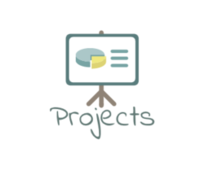
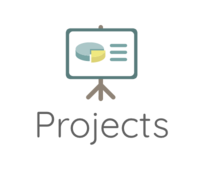
Minor Changes Nav bar images width and height adjusted and made them responsive

Changed region(s): [[0.1765, 0.1471, 0.8235, 0.8529]]

diff --git a/WebContent/index.html b/WebContent/index.html
@@ -59,12 +59,12 @@ $('.dropdown').on('hide.bs.dropdown', function() {
 <div class="dropdown">
 <div class="dropdown-toggle" data-toggle="dropdown"  style="cursor:pointer;float:center;"><p style="text-align:center;margin-top:16px; font-family: 'Aldrich';font-size:20px;color:#BEB9B5;">{{name}}</p></div>
   
-  <ul class="dropdown-menu dropdown-menu-right" role="menu" style="width:100%;background-color:#222d3d;margin-top:1%;margin-right:0%;">
-    <li style="padding:8px; font-size:20px;font-color:#efefef;font-family: 'Poiret One', cursive;"><a  style="font-color:#efefef" href="#myself"><img src ="images/nav1.png"/></a></li>
-    <li style="color:#efefef;padding:8px; font-size:20px;font-family: 'Poiret One', cursive;"><a href="#education"><img src ="images/nav2.png"/></a></li>
-    <li style="padding:8px; font-size:20px;font-family: 'Poiret One', cursive;"><a href="#proj" ><img src ="images/nav3.png"/></a></li>
-    <li style="padding:8px; font-size:20px;font-family: 'Poiret One', cursive;"><a href="#exp" ><img src ="images/nav4.png"/></a></li>
-    <li style="padding:8px; font-size:20px;font-family: 'Poiret One', cursive;"><a href="#exptech" ><img src ="images/nav5.png"/></a></li>
+  <ul class="dropdown-menu dropdown-menu-right" role="menu" style="width:100%;background-color:#000000;margin-top:1%;margin-right:0%;">
+    <li style="padding:8px; font-size:20px;font-color:#efefef;font-family: 'Poiret One', cursive;"><a  style="font-color:#efefef" href="#myself"><img class="img-responsive" src ="images/nav1.png"/></a></li>
+    <li style="color:#efefef;padding:8px; font-size:20px;font-family: 'Poiret One', cursive;"><a href="#education"><img class="img-responsive" src ="images/nav2.png"/></a></li>
+    <li style="padding:8px; font-size:20px;font-family: 'Poiret One', cursive;"><a href="#proj" ><img class="img-responsive" src ="images/nav3.png"/></a></li>
+    <li style="padding:8px; font-size:20px;font-family: 'Poiret One', cursive;"><a href="#exp" ><img class="img-responsive" src ="images/nav4.png"/></a></li>
+    <li style="padding:8px; font-size:20px;font-family: 'Poiret One', cursive;"><a href="#exptech" ><img class="img-responsive" src ="images/nav5.png"/></a></li>
    
   </ul>
 
